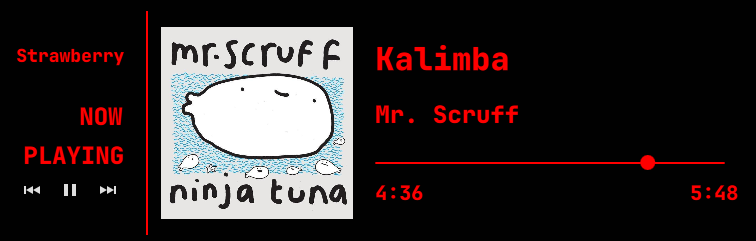
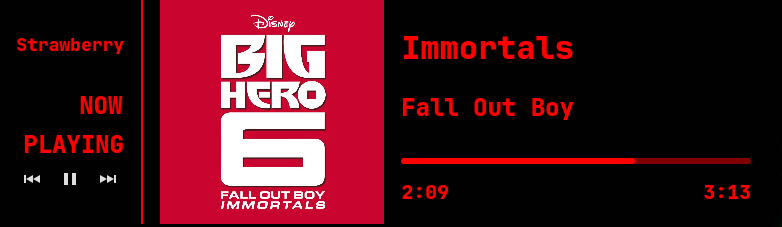
Finished!!
Tue Jul 25 05:22:10 PM 2023

diff --git a/contents/ui/GeneralConfig.qml b/contents/ui/GeneralConfig.qml
@@ -2,27 +2,24 @@ import QtQuick 2.12
 import QtQuick.Controls 2.12
 import QtQuick.Layouts 1.11
 import org.kde.plasma.core 2.0 as PlasmaCore
+import org.kde.plasma.components 2.0 as PlasmaComponents
+import QtQuick.Dialogs 1.2
+import QtQuick.Window 2.2
 
 Item {
     id: configRoot
-
     signal configurationChanged
-
     QtObject {
         id: backgroundValue
         property var value
     }
-
     property alias cfg_opacity: opacitySpinBox.value
-
+    property alias cfg_color: configColor.value
     property string cfg_preferredSource
     property alias cfg_alignment: alignmentsComboBox.currentIndex
     property alias cfg_background: backgroundValue.value
-
-	property string cfg_fontFamily
-
+    property string cfg_fontFamily
     property var alignments: ["Left", "Right"]
-
     ColumnLayout {
         spacing: units.smallSpacing * 2
         RowLayout{
@@ -99,7 +96,7 @@ Item {
                 id: fontFamilyComboBox
                 model: Qt.fontFamilies()
                 onCurrentIndexChanged: {
-                    var current = Qt.fontFamilies()[currentIndex]
+                    var current = Qt. fontFamilies()[currentIndex]
                     cfg_fontFamily=current
                     configRoot.configurationChanged()
                 }
@@ -129,12 +126,73 @@ Item {
                 textRole: "label"
             }
         }
-        RowLayout{
+        //
+        RowLayout {
+            id: configColor
+            spacing: 2
+            Layout.maximumWidth: 300
+            property alias label: label.text
+            property alias horizontalAlignment: label.horizontalAlignment
+            property string configKey: 'color'
+            property string configValue: configKey ? plasmoid.configuration[configKey] : ""
+            property string defaultColor: '#ff0000'
+            readonly property color value: configValue || defaultColor
+            onConfigValueChanged: {
+                    if (!textField.activeFocus) {
+                            textField.text = configColor.configValue
+                    }
+                    if (configKey) {
+                            plasmoid.configuration[configKey] = configValue
+                    }
+            }
             Label {
-                text: i18n("Color")
+                    id: label
+                    text: "Color: "
+                    Layout.fillWidth: horizontalAlignment == Text.AlignRight
+                    horizontalAlignment: Text.AlignLeft
+            }
+            MouseArea {
+                width: textField.height
+                height: textField.height
+                hoverEnabled: true
+                onClicked: dialog.open()
+                Rectangle {
+                    anchors.fill: parent
+                    color: configColor.value
+                    border.width: 2
+                    border.color: parent.containsMouse ? theme.highlightColor : "#BB000000"
+                }
+            }
+            TextField {
+                    id: textField
+                    placeholderText: ""
+                    Layout.fillWidth: label.horizontalAlignment == Text.AlignLeft
+                    onTextChanged: {
+                            if (text.length === 0
+                                    || (text.indexOf('#') === 0 && (text.length == 4 || text.length == 7 || text.length == 9))
+                            ) {
+                                    configColor.configValue = text
+                            }
+                            console.log("Color changed to: " + configColor.value)
+                    }
+            }
+            ColorDialog {
+                    id: dialog
+                    visible: false
+                    modality: Qt.WindowModal
+                    title: configColor.label
+                    showAlphaChannel: true
+                    color: configColor.value
+                    onCurrentColorChanged: {
+                            if (visible && color != currentColor) {
+                                    configColor.configValue = currentColor
+                            }
+                    }
             }
         }
+        //
     }
+
     PlasmaCore.DataSource {
         id: dataSource
         engine: "mpris2"

diff --git a/contents/ui/Representation.qml b/contents/ui/Representation.qml
@@ -6,7 +6,6 @@ import org.kde.plasma.core 2.0 as PlasmaCore
 
 GridLayout {
     id: fullView
-    // focus: true
     readonly property var alignmentOpts: [
         {   
             "flow": GridLayout.LeftToRight,
@@ -54,6 +53,7 @@ GridLayout {
     rows: alignmentOption.rows
     flow: alignmentOption.flow
     columns: alignmentOption.columns
+   property string colorOpt: plasmoid.configuration.color ? plasmoid.configuration.color : "red"
     // layoutDirection: alignmentOption.layoutDirection
     Rectangle {
         width: 10
@@ -80,7 +80,8 @@ GridLayout {
                 maximumLineCount: 3
                 // elide: alignmentOption.track.elide
                 font.family: plasmoid.configuration.fontFamily
-                color: "red"
+                // color: "red"
+                color: colorOpt
             }
             Rectangle {
                 height: 20
@@ -94,7 +95,8 @@ GridLayout {
                 font.pixelSize: 24 //
                 font.bold: true
                 font.family: plasmoid.configuration.fontFamily
-                color: "red"
+                // color: "red"
+                color: colorOpt
                 visible: mediaSource.playbackStatus !== ""
             }
             PlasmaComponents.Label {
@@ -106,7 +108,8 @@ GridLayout {
                 font.bold: true
                 font.pixelSize: 24 //
                 font.family: plasmoid.configuration.fontFamily
-                color: "red"
+                // color: "red"
+                color: colorOpt
                 visible: mediaSource.playbackStatus !== ""
             }
             RowLayout {
@@ -176,7 +179,8 @@ GridLayout {
         width: alignmentOption.separator.width
         Layout.fillWidth: alignmentOption.separator.fillWidth
         Layout.fillHeight: alignmentOption.separator.fillHeight
-        color: "red"
+        // color: "red"
+        color: colorOpt
         visible: mediaSource.playbackStatus !== ""
     }
     Rectangle {
@@ -209,7 +213,8 @@ GridLayout {
             Layout.alignment: alignmentOption.track.alignment
             Layout.fillWidth: true
             font.pixelSize: 32
-            color: "red"
+            // color: "red"
+            color: colorOpt
             lineHeight: 1.2
             font.bold: true
             wrapMode: Text.Wrap
@@ -234,7 +239,8 @@ GridLayout {
             wrapMode: Text.Wrap
             maximumLineCount: 2
             horizontalAlignment: alignmentOption.track.horizontalAlignment
-            color: "red"
+            // color: "red"
+            color: colorOpt
             lineHeight: 1
         }
         Rectangle {
@@ -249,7 +255,8 @@ GridLayout {
                 width: parent.width
                 height: 0.2 * parent.height
                 radius: 0.5 * height
-                color: "red"
+                // color: "red"
+                color: colorOpt
                 opacity: 0.5
             }
             MouseArea {
@@ -268,7 +275,8 @@ GridLayout {
                     width: parent.width * ( mouseArea.value / mouseArea.maximum )
                     height: parent.height * 0.2
                     radius: 0.5 * height
-                    color: "red"
+                    // color: "red"
+                    color: colorOpt
                 }
                 onClicked: {
                     ratio = mouse.x / parent.width
@@ -295,7 +303,8 @@ GridLayout {
                 anchors.left: parent.left
                 anchors.verticalCenter: parent.verticalCenter
                 text: root.formatTrackTime(whereami.pos)
-                color: "red"
+                // color: "red"
+                color: colorOpt
             }
             PlasmaComponents.Label {
                 id: lengthWhereAmI
@@ -305,7 +314,8 @@ GridLayout {
                 font.family: plasmoid.configuration.fontFamily
                 font.pixelSize: 20
                 text: root.formatTrackTime(whereami.len)
-                color: "red"
+                // color: "red"
+                color: colorOpt
             }
             visible: mediaSource.playbackStatus !== ""
         }

diff --git a/README.md b/README.md
@@ -35,11 +35,12 @@ Use the [Makefile](./Makefile).
 
 + The Slider component is derived from [Chris Cortopassi's](https://www.ics.com/author/chris-cortopassi) blog [Creating QML Controls From Scratch: Slider](https://www.ics.com/blog/creating-qml-controls-scratch-slider)
 
++ The color picker component is derived from [Fausto-Korpsvart's](https://github.com/Fausto-Korpsvart) work on ["mcOS-BS-Inline-Battery/contents/ui/lib/ConfigColor.qml"](https://github.com/Fausto-Korpsvart/mcOS-BS-Inline-Battery/blob/70890f2f6b96161919a75adf506611362c2765e4/contents/ui/lib/ConfigColor.qml), licensed under GNU GPL V2, I guess. I could not find that info. Anyway, the component was copied almost verbatim. This component is used to pick colors in the configuration window.
 
 ## IMPROVEMENTS TO BE EXPECTED
-- [ ] Option to change color of the widget text.
+- [x] Option to change color of the widget.
 - [ ] Option to change the dimensions of Album art.
-- [ ] Smooth sliding with Slider (Drag operation).
+- [x] Smooth sliding with Slider (Drag operation).
 - [ ] Miscellaneous: Fix backend warnings (Layout overflows, containment etc.)
 
 ## Preview
